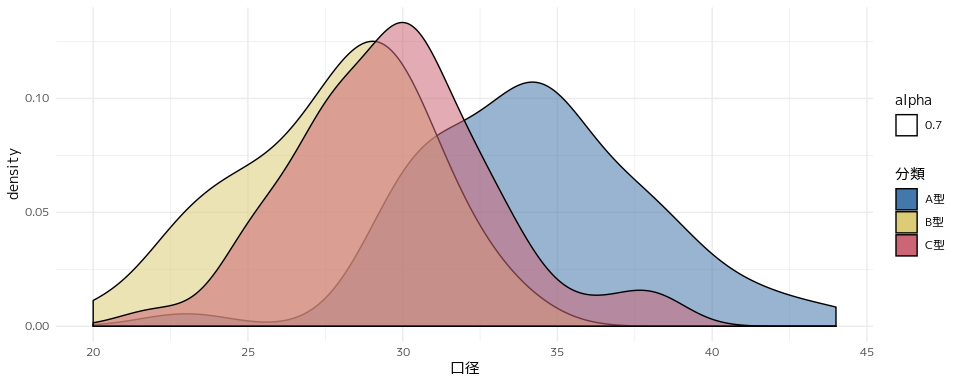
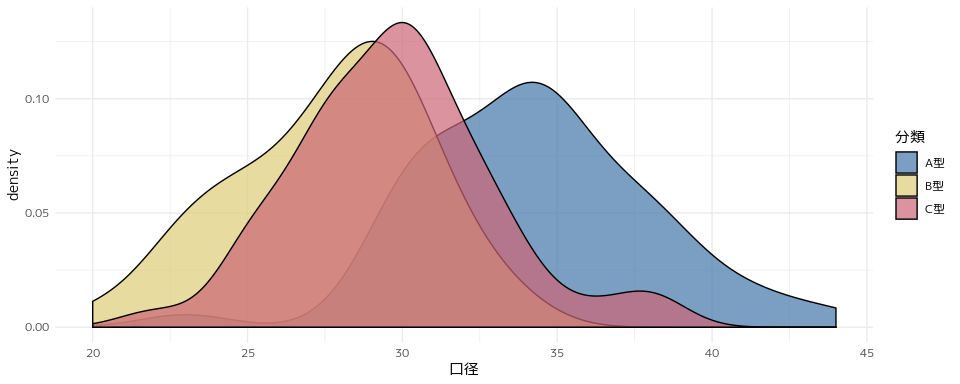
Marwick先生のsuggestionsによる修正

diff --git a/README.md b/README.md
@@ -161,11 +161,10 @@
 
 私たちには予備知識として、刀剣には刀子のようなマキリ状の小さなもの、刃渡り30cm前後の短刀、刃渡り60cmを超えるような太刀があることを知っていますが、そうした予備知識をいったん忘れてデータを観察します。
 
-    p<-iron%>%
+    iron%>%
         ggplot(aes(x=刀身長))+
         geom_histogram()+
         theme_minimal()
-    print(p)
 
 ![](README_files/figure-markdown_strict/unnamed-chunk-4-1.png)
 
@@ -181,11 +180,10 @@
 下の図は、刀身長と刀身元幅の散布図です。
 この図が間違いとは言いませんが、ヒストグラムと比較して、分布の形がわかりやすいと言えるでしょうか？
 
-    p<-iron%>%
+    iron%>%
         ggplot(aes(x=刀身長,y=刀身元幅))+
         geom_point()+
         theme_minimal()
-    print(p)
 
 ![](README_files/figure-markdown_strict/unnamed-chunk-5-1.png)
 
@@ -220,13 +218,12 @@
     nom <- x%>%dnorm(mean=s_iron$mean, sd=s_iron$sd)
     nom2<-data.frame(X=x,Y=nom)
     #正規曲線付きヒストグラム
-    p<-iron%>%
+    iron%>%
         ggplot(aes(x=刀身長,y=..density..))+
             geom_histogram()+
             geom_line(data=nom2,aes(x=x,y=Y))+
             scale_colour_ptol()+
             theme_minimal()
-    print(p)
 
     ## `stat_bin()` using `bins = 30`. Pick better value with `binwidth`.
 
@@ -317,13 +314,12 @@
 ヒストグラム
 ------------
 
-    p<-pot%>%
+    pot%>%
         ggplot(aes(x=口径,fill=分類))+
             geom_histogram()+
             scale_fill_ptol()+
             facet_wrap(~分類,ncol=1,scales="free_y")+
             theme_minimal()
-    print(p)
 
     ## `stat_bin()` using `bins = 30`. Pick better value with `binwidth`.
 
@@ -334,12 +330,11 @@
 密度図
 ------
 
-    p<-pot%>%
-        ggplot(aes(x=口径,fill=分類,alpha=0.7))+
-            geom_density()+
+    pot%>%
+        ggplot(aes(x=口径,fill=分類))+
+            geom_density(alpha=0.7)+
             scale_fill_ptol()+
             theme_minimal()
-    print(p)
 
 ![](README_files/figure-markdown_strict/unnamed-chunk-10-1.png)
 
@@ -348,13 +343,17 @@
 箱ひげ図
 --------
 
-    p<-pot%>%
-        ggplot(aes(x=分類,y=口径,fill=分類))+
-            geom_boxplot()+
-            scale_fill_ptol()+
+    library(ggforce)
+    pot%>%
+        ggplot(aes(x=分類,y=口径,fill=分類))+ 
+            geom_boxplot(alpha = 0.2)+      #不透明度を0.2
+            geom_sina(aes(colour = 分類),     #geom_sina()関数でaes()の引数にcolour=分類を指定
+                  alpha = 0.4, 
+                  size = 3) +
+            scale_fill_viridis_d() +        #viridis_d(は連続量、離散量ならviridis_c()を指定する
+            scale_colour_viridis_d() +
             coord_flip()+
             theme_minimal()
-    print(p)
 
 ![](README_files/figure-markdown_strict/unnamed-chunk-11-1.png)
 
@@ -414,14 +413,17 @@ p値が2.2e-16と極めて小さい値をとることから、分類によって
 次にどの分類同士で差があるのかを調べるために「多重比較」という統計手法を用います。
 いずれの分類でも有意な差を確認できます。
 
-    # aov関数の結果をTukeyHSD関数に渡す
-    tkh<-aov(口径~分類,data=pot)%>%TukeyHSD()
-    tkh$分類%>%kable(format="markdown")
+    tkh <- 
+        aov(口径 ~ 分類, data = pot) %>% 
+        TukeyHSD() %>% 
+        .$分類 %>%    #TukeyHSD関数の結果から$分類を選択 
+        as_tibble() %>%     #tibble_df形式に変換
+        mutate_if(is.numeric, round,3)      #mutate_if()でnumericクラスのカラムにround関数を適用する。
+    tkh%>%kable(format="markdown")
 
 <table>
 <thead>
 <tr class="header">
-<th style="text-align: left;"></th>
 <th style="text-align: right;">diff</th>
 <th style="text-align: right;">lwr</th>
 <th style="text-align: right;">upr</th>
@@ -430,25 +432,22 @@ p値が2.2e-16と極めて小さい値をとることから、分類によって
 </thead>
 <tbody>
 <tr class="odd">
-<td style="text-align: left;">B型-A型</td>
 <td style="text-align: right;">-6.58</td>
-<td style="text-align: right;">-8.1885528</td>
-<td style="text-align: right;">-4.971447</td>
-<td style="text-align: right;">0.0000000</td>
+<td style="text-align: right;">-8.189</td>
+<td style="text-align: right;">-4.971</td>
+<td style="text-align: right;">0.000</td>
 </tr>
 <tr class="even">
-<td style="text-align: left;">C型-A型</td>
 <td style="text-align: right;">-4.54</td>
-<td style="text-align: right;">-6.1485528</td>
-<td style="text-align: right;">-2.931447</td>
-<td style="text-align: right;">0.0000000</td>
+<td style="text-align: right;">-6.149</td>
+<td style="text-align: right;">-2.931</td>
+<td style="text-align: right;">0.000</td>
 </tr>
 <tr class="odd">
-<td style="text-align: left;">C型-B型</td>
 <td style="text-align: right;">2.04</td>
-<td style="text-align: right;">0.4314472</td>
-<td style="text-align: right;">3.648553</td>
-<td style="text-align: right;">0.0087802</td>
+<td style="text-align: right;">0.431</td>
+<td style="text-align: right;">3.649</td>
+<td style="text-align: right;">0.009</td>
 </tr>
 </tbody>
 </table>
@@ -555,13 +554,12 @@ Note:
 構成比を比較するために使われるのが構成比棒グラフです。長さや位置によって視覚化されるため、正確な読み取りが可能です。
 構成比棒グラフは比率を比較するための優れたグラフ表現です。
 
-    p<-toj%>%
+    toj%>%
         ggplot(aes(x=遺跡名,y=点数,fill=器種))+
             geom_bar(stat="identity",position="fill")+
             coord_flip()+
             scale_fill_ptol()+
             theme_minimal()
-    print(p)
 
 ![](README_files/figure-markdown_strict/unnamed-chunk-16-1.png)
 
@@ -574,13 +572,12 @@ Note:
 
 オフセット印刷の場合、グレスケール（網掛け）は20〜30%スパンが識別できる限界です。したがって、構成比棒グラフでは4群〜5群が表現の限界となります。
 
-    p<-toj%>%
+    toj%>%
         ggplot(aes(x=遺跡名,y=点数,fill=器種))+
             geom_bar(stat="identity",position="fill")+
             coord_flip()+
             scale_fill_brewer(palette="Greys")+
             theme_minimal()
-    print(p)
 
 ![](README_files/figure-markdown_strict/unnamed-chunk-17-1.png)
 
@@ -591,33 +588,30 @@ Note:
 
     # 食膳具、貯蔵具、その他に区分
     toj2<-toj%>%
-        mutate(大別器種 = case_when(
-            grepl("碗",器種)|grepl("皿",器種)|grepl("その他の食膳具",器種)  == TRUE ~ "食膳具",
-            grepl("壺･甕･瓶",器種) == TRUE ~ "貯蔵具",
-            grepl("灯明皿・油注",器種)|grepl("その他",器種)|grepl("すり鉢",器種)|
-                grepl("鍋",器種)|grepl("土瓶",器種) == TRUE ~ "その他",
-            ))
-    # 3区分の構成比棒グラフ
-    p<-toj2%>%
-        ggplot(aes(x=遺跡名,y=点数,fill=大別器種))+
-            geom_bar(stat="identity",position="fill")+
-            coord_flip()+
-            scale_fill_brewer(palette="Greys")+
-            theme_minimal()
-    print(p)
+        mutate(
+            大別器種 = case_when(
+                str_detect(器種,"碗|皿|その他食膳具") ~ "食膳具",
+                str_detect(器種,"壺･甕･瓶") ~ "貯蔵具",
+                str_detect(器種,"灯明皿・油注|その他|すり鉢|鍋|土瓶") ~ "その他",
+            )
+        )
 
-![](README_files/figure-markdown_strict/unnamed-chunk-18-1.png)
+3区分の構成比棒グラフ
+=====================
+
+toj2%&gt;% ggplot(aes(x=遺跡名,y=点数,fill=大別器種))+
+geom\_bar(stat=“identity”,position=“fill”)+ coord\_flip()+
+scale\_fill\_brewer(palette=“Greys”)+ theme\_minimal() \`\`\`
 
 ### 解決法2　ファセットされた棒グラフを使う
 
 どうしてもカテゴリー数を減らしたくない場合は、群変数を器種にとって遺跡ごとにファセットします。花粉分析などの分析結果でよく見る形のグラフです。よほどカテゴリーが多くない限り、表現として成立していますし、オフセット印刷原稿としても対応可能です。
 
-    p<-toj%>%
+    toj%>%
         ggplot(aes(x=器種,y=点数))+
         geom_bar(stat="identity")+
         coord_flip()+facet_wrap(~遺跡名,scales="free")+
         theme_minimal()
-    print(p)
 
 ![](README_files/figure-markdown_strict/unnamed-chunk-19-1.png)
 
@@ -650,14 +644,12 @@ Note:
 なお、散布図を描く場合の約束として、因果関係の「果」にあたる変量をy軸に、「因」にあたる変量をx軸に割り当てます。
 y軸に割り当てられた「果」にあたる変量を**従属変数**、x軸に割り当てられた「因」にあたる変量を**独立変数**と呼びます。
 
-GGallyパッケージを利用して散布図行列を描画します。
+研究集会ではGGallyパッケージを利用して散布図行列を描画しましたが、PerformanceAnalyticsパッケージを利用して有意性の評価を示しています。
 
-    # GGallyパッケージ読み込み
-    library(GGally)
-    #
-    p<-iron%>%select(全長,刀身長,茎長,刀身先幅,刀身元幅,刀身元厚,茎先幅)%>%
-        ggpairs(diag=list(continuous="barDiag"))
-    print(p)
+    library(PerformanceAnalytics)
+    iron %>%
+        select(全長, 刀身長, 茎長, 刀身先幅, 刀身元幅, 刀身元厚, 茎先幅) %>%
+            chart.Correlation(histogram = TRUE, pch = 19)
 
 ![](README_files/figure-markdown_strict/unnamed-chunk-20-1.png)
 
@@ -675,9 +667,6 @@ GGallyパッケージを利用して散布図行列を描画します。
             geom_point()+
             geom_smooth(method="lm")+
             theme_minimal()
-    print(p)
-
-![](README_files/figure-markdown_strict/unnamed-chunk-21-1.png)
 
 なお、刀身元幅を独立変数とする刀身長の予測式は次のとおりです。
 
@@ -713,6 +702,31 @@ GGallyパッケージを利用して散布図行列を描画します。
 </table>
 
 y=10.72x-6.28
+
+    library(ggpmisc)
+    iron %>%
+        ggplot(aes(x=刀身元幅,y=刀身長))+
+            geom_point()+
+            geom_smooth(method="lm")+
+            theme_minimal() +
+            stat_poly_eq(formula = y ~ x,
+                eq.with.lhs = "italic(hat(y))~`=`~",
+                aes(label = paste(stat(eq.label), 
+                    stat(rr.label), 
+                    sep = "~~~")
+                ), parse = TRUE
+            ) +
+            stat_fit_glance(label.y = 0.9,
+                method = "lm",
+                method.args = list(formula = y ~ x),
+                aes(label = sprintf(
+                    '~~italic(P)~"="~~%.25f',
+                    stat(p.value)
+                    )
+                ),parse = TRUE
+            )
+
+![](README_files/figure-markdown_strict/unnamed-chunk-23-1.png)
 
 <a rel="license" href="http://creativecommons.org/licenses/by/4.0/"><img alt="クリエイティブ・コモンズ・ライセンス" style="border-width:0" src="fig/ccby.png" width="100" /></a><br />この
 記事 は
